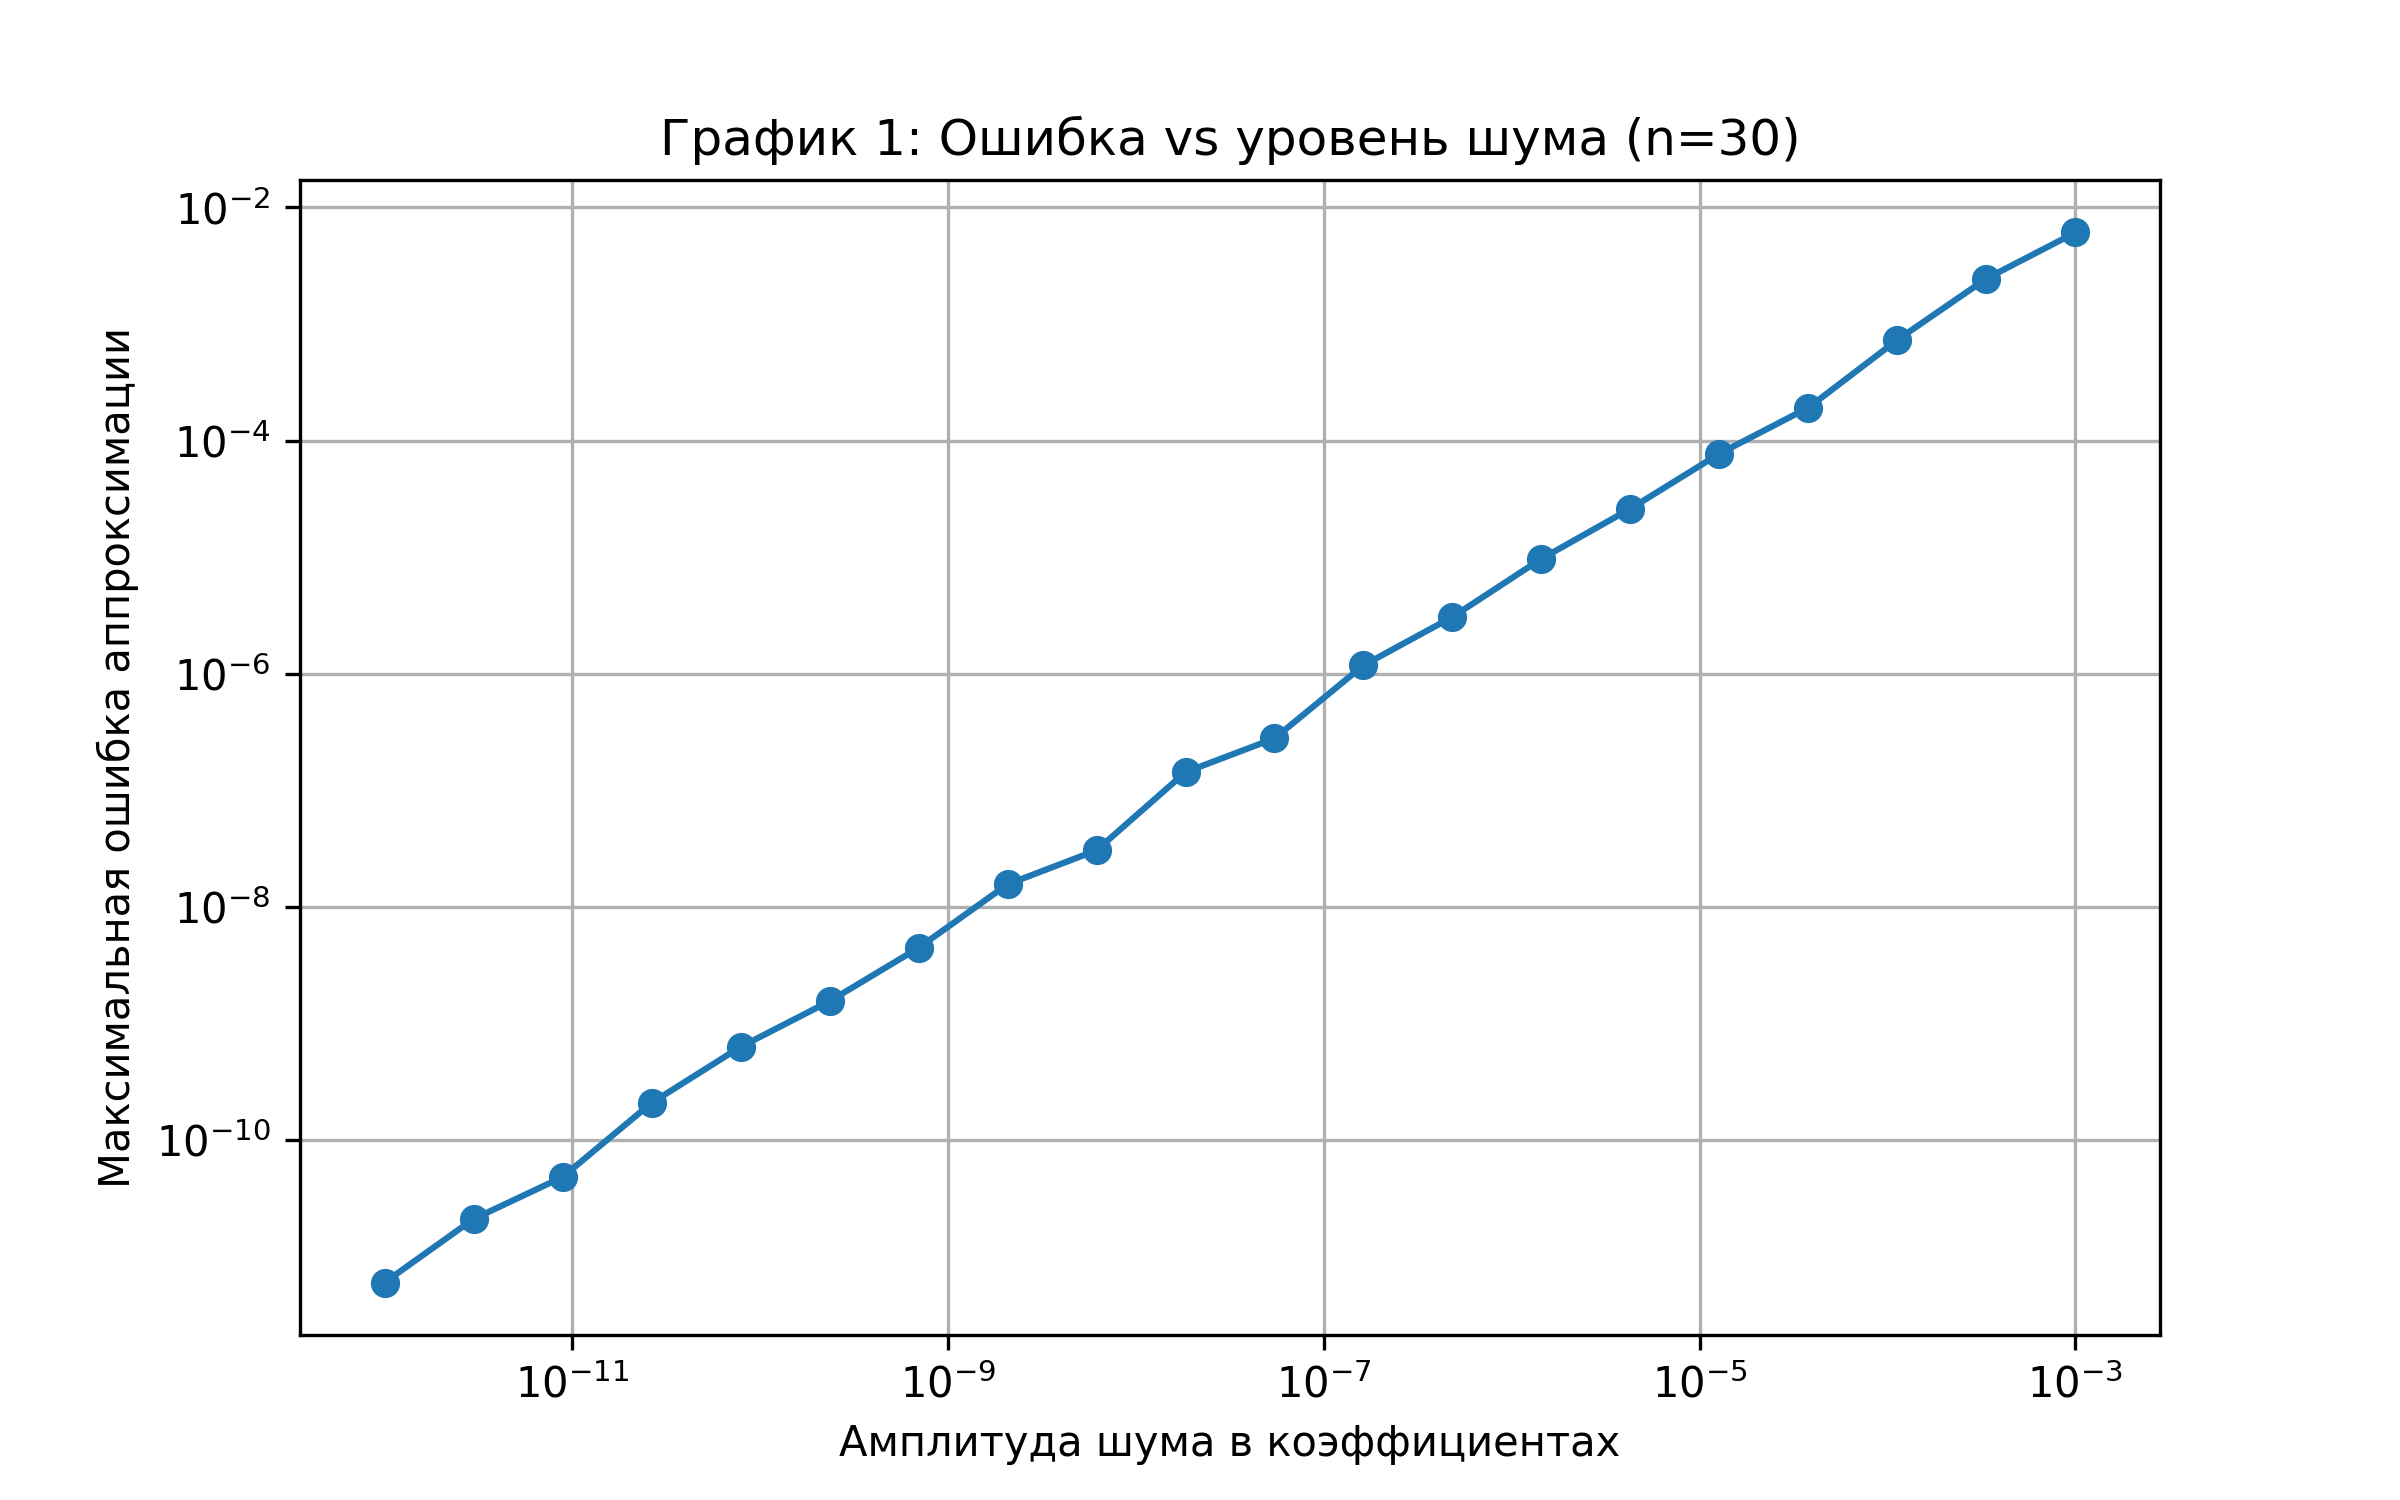
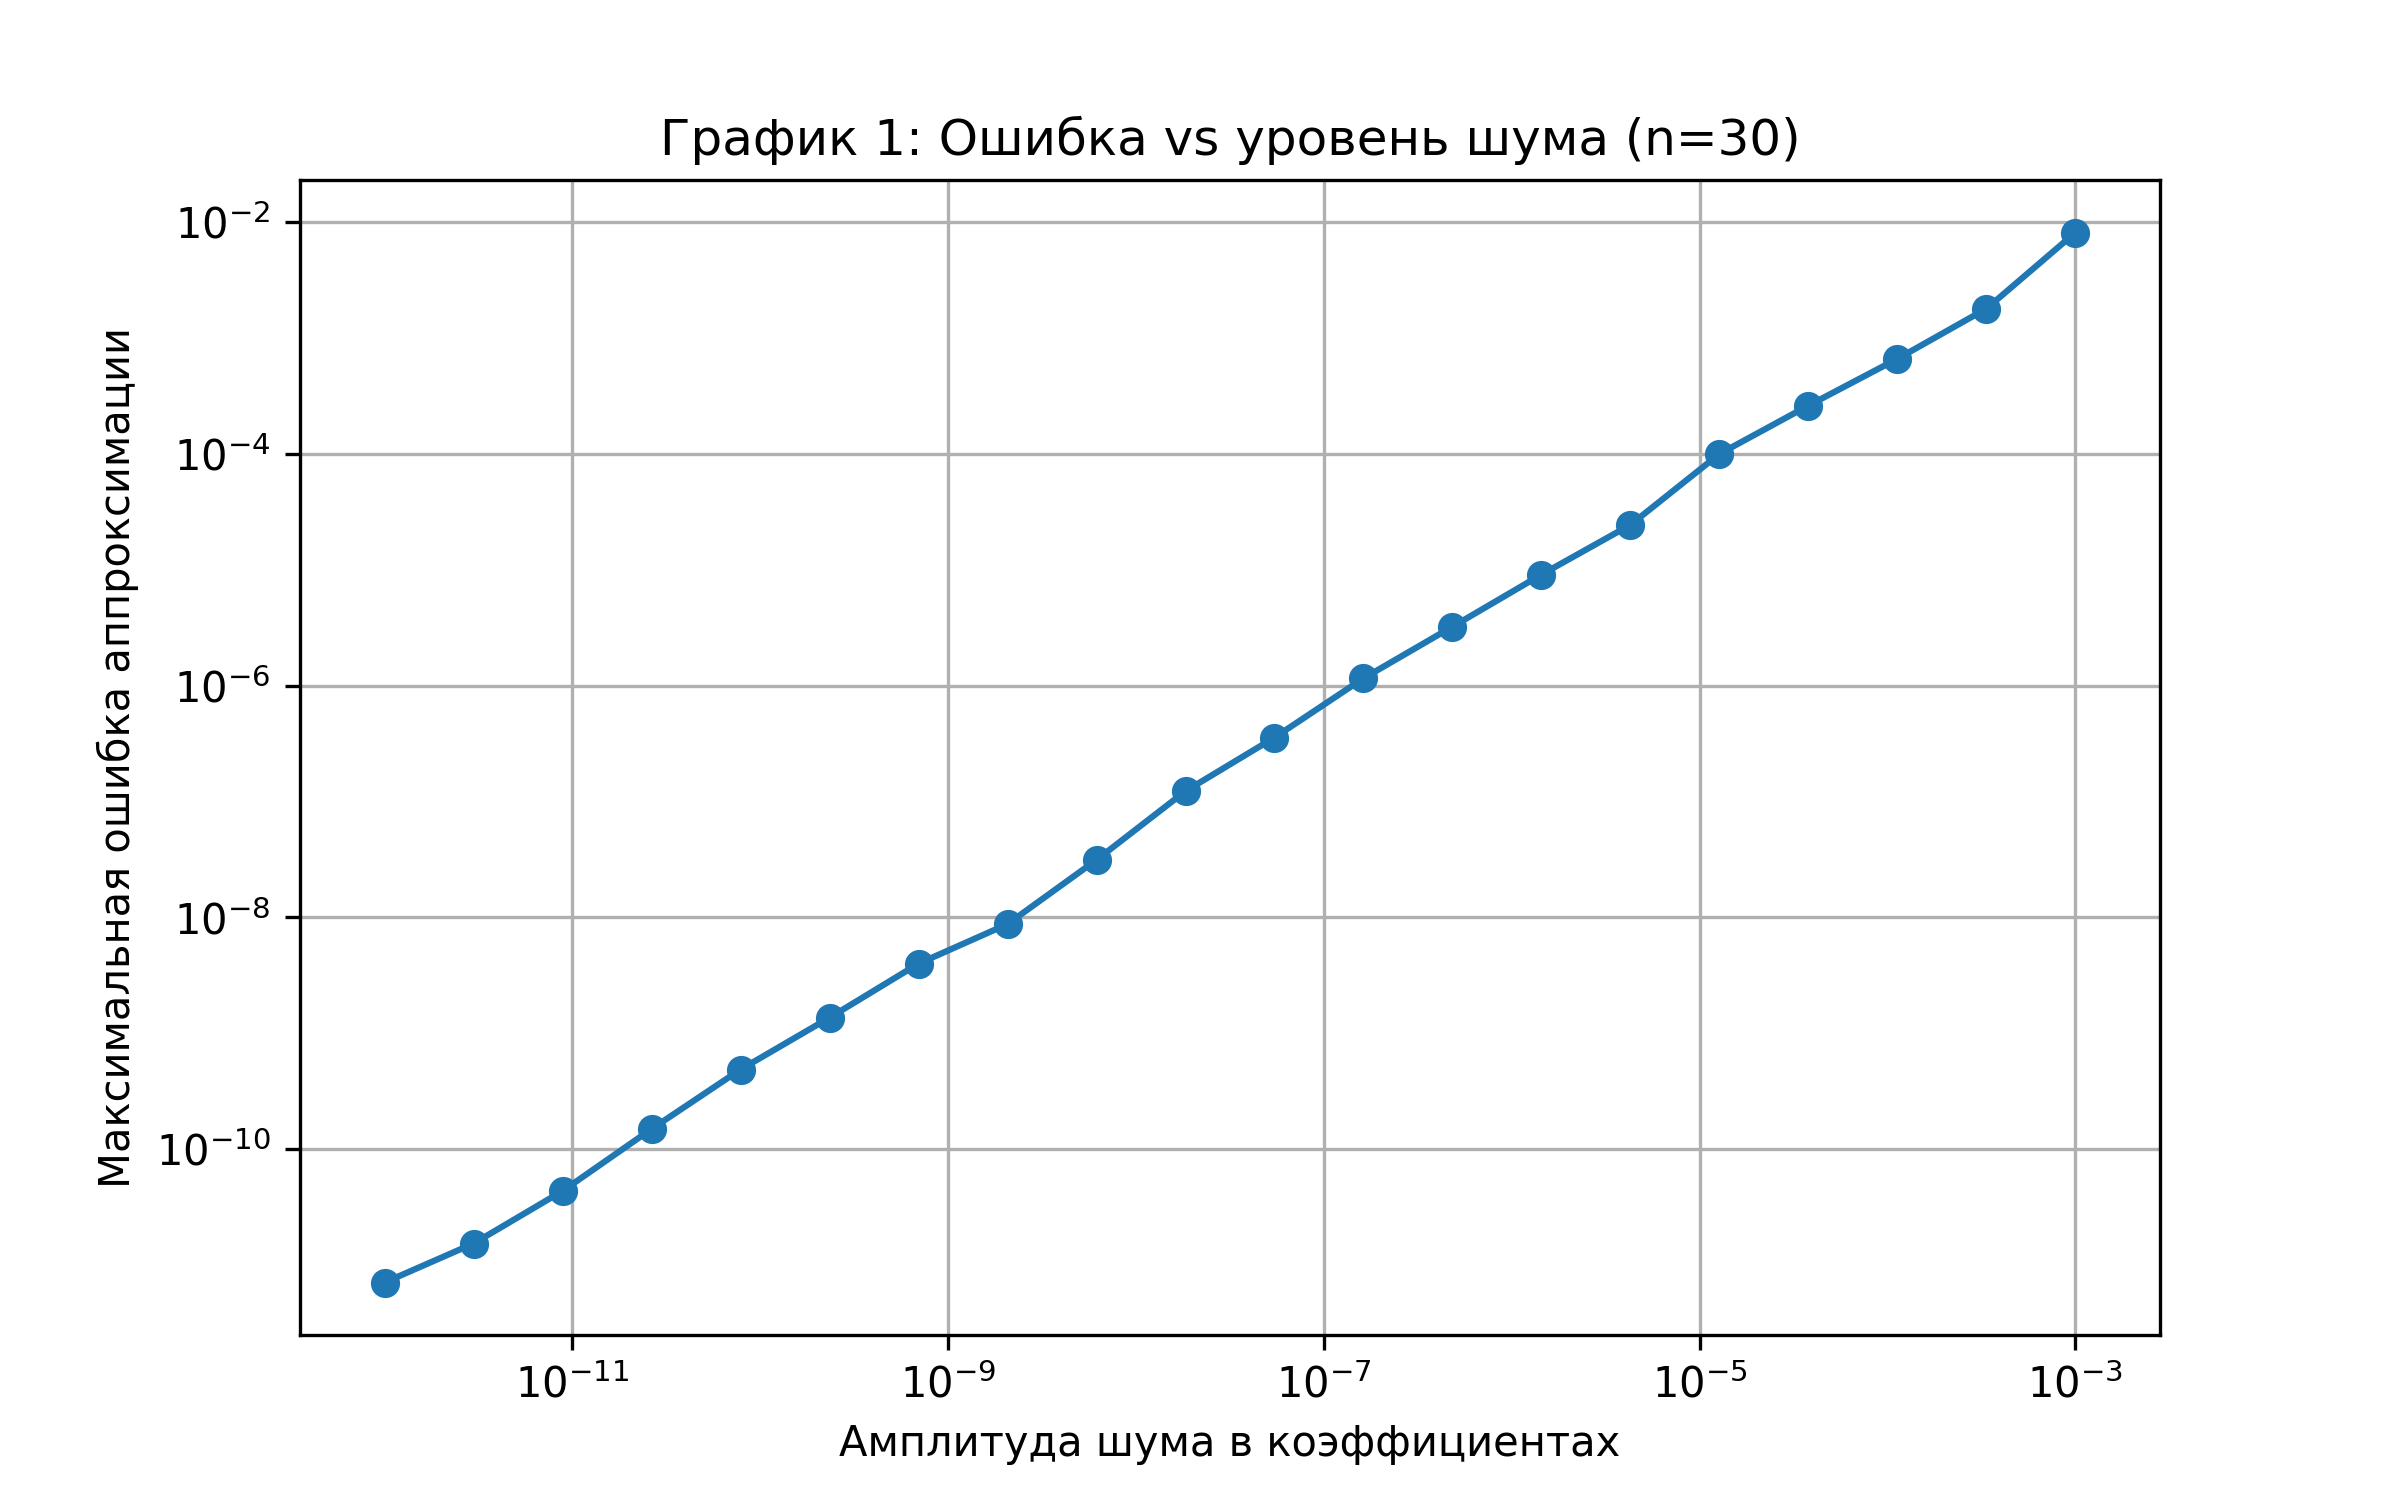
second_part

diff --git a/part2.py b/part2.py
@@ -8,7 +8,7 @@ def chebyshev_approximation(f, n):
     y = f(x)
     return Chebyshev.fit(x, y, deg=n)
 
-f = lambda x: np.sin(x / 3 / np.pi)
+f = lambda x: np.sin(x * 3 * np.pi)
 xs = np.linspace(-1, 1, 1000)
 f_true = f(xs)
 
